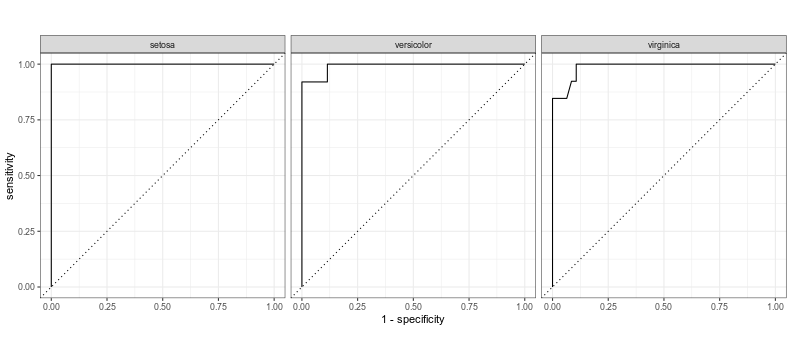
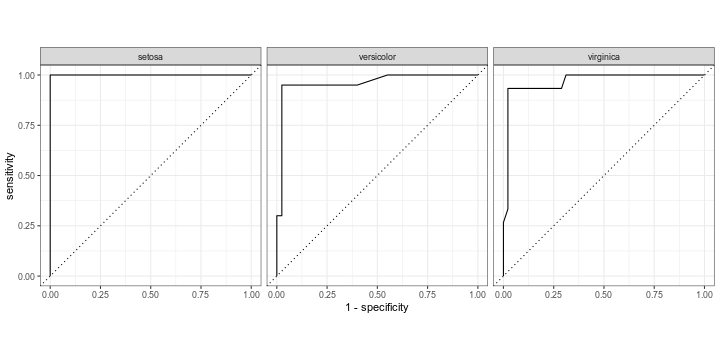
2020-04-25

diff --git a/01_aulas/05_tidyr.html b/01_aulas/05_tidyr.html
@@ -410,7 +410,7 @@ dplyr::glimpse(iris)
 
 background-image: url(img/package_rsample.png)
 background-size: 100px
-background-position: 90% 90%
+background-position: 95% 90%
 
 # 5.8 Pacote rsample
 
@@ -432,7 +432,7 @@ iris_split
 
 background-image: url(img/package_rsample.png)
 background-size: 100px
-background-position: 90% 90%
+background-position: 95% 90%
 
 # 5.8 Pacote rsample
 
@@ -449,10 +449,10 @@ iris_split %&gt;%
 ```
 ## Rows: 90
 ## Columns: 5
-## $ Sepal.Length &lt;dbl&gt; 5.1, 4.9, 4.6, 5.0, 4.6, 4.4, 5.4, 4.8, 4.8, 4.3, 5.7, 5…
-## $ Sepal.Width  &lt;dbl&gt; 3.5, 3.0, 3.1, 3.6, 3.4, 2.9, 3.7, 3.4, 3.0, 3.0, 4.4, 3…
-## $ Petal.Length &lt;dbl&gt; 1.4, 1.4, 1.5, 1.4, 1.4, 1.4, 1.5, 1.6, 1.4, 1.1, 1.5, 1…
-## $ Petal.Width  &lt;dbl&gt; 0.2, 0.2, 0.2, 0.2, 0.3, 0.2, 0.2, 0.2, 0.1, 0.1, 0.4, 0…
+## $ Sepal.Length &lt;dbl&gt; 5.1, 4.6, 4.4, 4.8, 4.3, 5.7, 5.4, 5.7, 5.1, 5.4, 4.8, 5…
+## $ Sepal.Width  &lt;dbl&gt; 3.5, 3.1, 2.9, 3.0, 3.0, 4.4, 3.9, 3.8, 3.8, 3.4, 3.4, 3…
+## $ Petal.Length &lt;dbl&gt; 1.4, 1.5, 1.4, 1.4, 1.1, 1.5, 1.3, 1.7, 1.5, 1.7, 1.9, 1…
+## $ Petal.Width  &lt;dbl&gt; 0.2, 0.2, 0.2, 0.1, 0.1, 0.4, 0.4, 0.3, 0.3, 0.2, 0.2, 0…
 ## $ Species      &lt;fct&gt; setosa, setosa, setosa, setosa, setosa, setosa, setosa, …
 ```
 
@@ -460,7 +460,7 @@ iris_split %&gt;%
 
 background-image: url(img/package_rsample.png)
 background-size: 100px
-background-position: 90% 90%
+background-position: 95% 90%
 
 # 5.8 Pacote rsample
 
@@ -477,10 +477,10 @@ iris_split %&gt;%
 ```
 ## Rows: 60
 ## Columns: 5
-## $ Sepal.Length &lt;dbl&gt; 4.7, 5.4, 5.0, 4.9, 5.8, 5.1, 5.7, 5.1, 5.0, 5.2, 4.7, 4…
-## $ Sepal.Width  &lt;dbl&gt; 3.2, 3.9, 3.4, 3.1, 4.0, 3.5, 3.8, 3.8, 3.0, 3.5, 3.2, 3…
-## $ Petal.Length &lt;dbl&gt; 1.3, 1.7, 1.5, 1.5, 1.2, 1.4, 1.7, 1.5, 1.6, 1.5, 1.6, 1…
-## $ Petal.Width  &lt;dbl&gt; 0.2, 0.4, 0.2, 0.1, 0.2, 0.3, 0.3, 0.3, 0.2, 0.2, 0.2, 0…
+## $ Sepal.Length &lt;dbl&gt; 4.9, 4.7, 5.0, 5.4, 4.6, 5.0, 4.9, 5.4, 4.8, 5.8, 5.1, 5…
+## $ Sepal.Width  &lt;dbl&gt; 3.0, 3.2, 3.6, 3.9, 3.4, 3.4, 3.1, 3.7, 3.4, 4.0, 3.5, 3…
+## $ Petal.Length &lt;dbl&gt; 1.4, 1.3, 1.4, 1.7, 1.4, 1.5, 1.5, 1.5, 1.6, 1.2, 1.4, 1…
+## $ Petal.Width  &lt;dbl&gt; 0.2, 0.2, 0.2, 0.4, 0.3, 0.2, 0.1, 0.2, 0.2, 0.2, 0.3, 0…
 ## $ Species      &lt;fct&gt; setosa, setosa, setosa, setosa, setosa, setosa, setosa, …
 ```
 
@@ -488,7 +488,7 @@ iris_split %&gt;%
 
 background-image: url(img/package_recipes.png)
 background-size: 100px
-background-position: 90% 72%
+background-position: 95% 72%
 
 # 5.9 Pacote recipes
 
@@ -526,7 +526,7 @@ iris_recipe
 
 background-image: url(img/package_recipes.png)
 background-size: 100px
-background-position: 90% 90%
+background-position: 95% 90%
 
 # 5.9 Pacote recipes
 
@@ -541,9 +541,9 @@ dplyr::glimpse(iris_testing)
 ```
 ## Rows: 60
 ## Columns: 4
-## $ Sepal.Length &lt;dbl&gt; -1.32241203, -0.50402344, -0.97167406, -1.08858672, -0.0…
-## $ Sepal.Width  &lt;dbl&gt; 0.40685598, 2.01892682, 0.86744765, 0.17656014, 2.249222…
-## $ Petal.Width  &lt;dbl&gt; -1.39684840, -1.13218238, -1.39684840, -1.52918140, -1.3…
+## $ Sepal.Length &lt;dbl&gt; -1.16455329, -1.40801391, -1.04282298, -0.55590174, -1.5…
+## $ Sepal.Width  &lt;dbl&gt; -0.01476838, 0.42828315, 1.31438622, 1.97896352, 0.87133…
+## $ Petal.Width  &lt;dbl&gt; -1.4519180, -1.4519180, -1.4519180, -1.1830443, -1.31748…
 ## $ Species      &lt;fct&gt; setosa, setosa, setosa, setosa, setosa, setosa, setosa, …
 ```
 
@@ -551,7 +551,7 @@ dplyr::glimpse(iris_testing)
 
 background-image: url(img/package_recipes.png)
 background-size: 100px
-background-position: 90% 90%
+background-position: 95% 90%
 
 # 5.9 Pacote recipes
 
@@ -565,9 +565,9 @@ dplyr::glimpse(iris_training)
 ```
 ## Rows: 90
 ## Columns: 4
-## $ Sepal.Length &lt;dbl&gt; -0.8547614, -1.0885867, -1.4393247, -0.9716741, -1.43932…
-## $ Sepal.Width  &lt;dbl&gt; 1.09774348, -0.05373569, 0.17656014, 1.32803932, 0.86744…
-## $ Petal.Width  &lt;dbl&gt; -1.3968484, -1.3968484, -1.3968484, -1.3968484, -1.26451…
+## $ Sepal.Length &lt;dbl&gt; -0.9210927, -1.5297442, -1.7732048, -1.2862836, -1.89493…
+## $ Sepal.Width  &lt;dbl&gt; 1.09286045, 0.20675738, -0.23629415, -0.01476838, -0.014…
+## $ Petal.Width  &lt;dbl&gt; -1.4519180, -1.4519180, -1.4519180, -1.5863549, -1.58635…
 ## $ Species      &lt;fct&gt; setosa, setosa, setosa, setosa, setosa, setosa, setosa, …
 ```
 
@@ -575,7 +575,7 @@ dplyr::glimpse(iris_training)
 
 background-image: url(img/package_parsnip.png)
 background-size: 100px
-background-position: 90% 90%
+background-position: 95% 90%
 
 # 5.10 Pacote parsnip
 
@@ -589,9 +589,19 @@ iris_rf &lt;- parsnip::rand_forest(trees = 100, mode = "classification") %&gt;%
 
 ---
 
+background-image: url(img/package_parsnip.png), url(img/algorithm_random_forest.png)
+background-size: 100px, 700px
+background-position: 95% 90%, 45% 50%
+
+# 5.10 Pacote parsnip
+
+## Random Forest
+
+---
+
 background-image: url(img/package_parsnip.png)
 background-size: 100px
-background-position: 90% 90%
+background-position: 95% 90%
 
 # 5.10 Pacote parsnip
 
@@ -621,7 +631,7 @@ stats::predict(iris_rf, iris_testing)
 
 background-image: url(img/package_parsnip.png)
 background-size: 100px
-background-position: 90% 90%
+background-position: 95% 90%
 
 # 5.10 Pacote parsnip
 
@@ -636,9 +646,9 @@ iris_rf %&gt;%
 ## Rows: 60
 ## Columns: 5
 ## $ .pred_class  &lt;fct&gt; setosa, setosa, setosa, setosa, setosa, setosa, setosa, …
-## $ Sepal.Length &lt;dbl&gt; -1.32241203, -0.50402344, -0.97167406, -1.08858672, -0.0…
-## $ Sepal.Width  &lt;dbl&gt; 0.40685598, 2.01892682, 0.86744765, 0.17656014, 2.249222…
-## $ Petal.Width  &lt;dbl&gt; -1.39684840, -1.13218238, -1.39684840, -1.52918140, -1.3…
+## $ Sepal.Length &lt;dbl&gt; -1.16455329, -1.40801391, -1.04282298, -0.55590174, -1.5…
+## $ Sepal.Width  &lt;dbl&gt; -0.01476838, 0.42828315, 1.31438622, 1.97896352, 0.87133…
+## $ Petal.Width  &lt;dbl&gt; -1.4519180, -1.4519180, -1.4519180, -1.1830443, -1.31748…
 ## $ Species      &lt;fct&gt; setosa, setosa, setosa, setosa, setosa, setosa, setosa, …
 ```
 
@@ -646,7 +656,7 @@ iris_rf %&gt;%
 
 background-image: url(img/package_yardstick.png)
 background-size: 100px
-background-position: 90% 90%
+background-position: 95% 90%
 
 # 5.11 Pacote tyardstick
 
@@ -663,14 +673,14 @@ iris_rf %&gt;%
 ##   .metric  .estimator .estimate
 ##   &lt;chr&gt;    &lt;chr&gt;          &lt;dbl&gt;
 ## 1 accuracy multiclass     0.917
-## 2 kap      multiclass     0.874
+## 2 kap      multiclass     0.873
 ```
 
 ---
 
 background-image: url(img/package_yardstick.png)
 background-size: 100px
-background-position: 90% 90%
+background-position: 95% 90%
 
 # 5.11 Pacote tyardstick
 
@@ -685,12 +695,12 @@ dplyr::glimpse(iris_probs)
 ```
 ## Rows: 60
 ## Columns: 7
-## $ .pred_setosa     &lt;dbl&gt; 1.00, 1.00, 1.00, 0.99, 0.73, 1.00, 0.76, 1.00, 0.93…
-## $ .pred_versicolor &lt;dbl&gt; 0.00, 0.00, 0.00, 0.01, 0.24, 0.00, 0.22, 0.00, 0.06…
-## $ .pred_virginica  &lt;dbl&gt; 0.00, 0.00, 0.00, 0.00, 0.03, 0.00, 0.02, 0.00, 0.01…
-## $ Sepal.Length     &lt;dbl&gt; -1.32241203, -0.50402344, -0.97167406, -1.08858672, …
-## $ Sepal.Width      &lt;dbl&gt; 0.40685598, 2.01892682, 0.86744765, 0.17656014, 2.24…
-## $ Petal.Width      &lt;dbl&gt; -1.39684840, -1.13218238, -1.39684840, -1.52918140, …
+## $ .pred_setosa     &lt;dbl&gt; 0.92, 1.00, 1.00, 1.00, 1.00, 1.00, 0.94, 0.99, 1.00…
+## $ .pred_versicolor &lt;dbl&gt; 0.07, 0.00, 0.00, 0.00, 0.00, 0.00, 0.04, 0.01, 0.00…
+## $ .pred_virginica  &lt;dbl&gt; 0.01, 0.00, 0.00, 0.00, 0.00, 0.00, 0.02, 0.00, 0.00…
+## $ Sepal.Length     &lt;dbl&gt; -1.16455329, -1.40801391, -1.04282298, -0.55590174, …
+## $ Sepal.Width      &lt;dbl&gt; -0.01476838, 0.42828315, 1.31438622, 1.97896352, 0.8…
+## $ Petal.Width      &lt;dbl&gt; -1.4519180, -1.4519180, -1.4519180, -1.1830443, -1.3…
 ## $ Species          &lt;fct&gt; setosa, setosa, setosa, setosa, setosa, setosa, seto…
 ```
 
@@ -698,7 +708,7 @@ dplyr::glimpse(iris_probs)
 
 background-image: url(img/package_yardstick.png)
 background-size: 100px
-background-position: 90% 90%
+background-position: 95% 90%
 
 # 5.11 Pacote tyardstick
 
@@ -709,36 +719,43 @@ iris_probs %&gt;%
 ```
 
 ```
-## Rows: 87
+## Rows: 69
 ## Columns: 5
 ## $ .level          &lt;chr&gt; "setosa", "setosa", "setosa", "setosa", "setosa", "se…
-## $ .n              &lt;dbl&gt; 0, 13, 16, 17, 18, 19, 20, 21, 22, 23, 25, 26, 28, 32…
-## $ .n_events       &lt;dbl&gt; 0, 13, 16, 17, 18, 19, 20, 21, 22, 22, 22, 22, 22, 22…
-## $ .percent_tested &lt;dbl&gt; 0.000000, 21.666667, 26.666667, 28.333333, 30.000000,…
-## $ .percent_found  &lt;dbl&gt; 0.00000, 59.09091, 72.72727, 77.27273, 81.81818, 86.3…
+## $ .n              &lt;dbl&gt; 0, 13, 16, 18, 19, 20, 22, 23, 24, 25, 27, 28, 29, 30…
+## $ .n_events       &lt;dbl&gt; 0, 13, 16, 18, 19, 20, 22, 23, 24, 25, 25, 25, 25, 25…
+## $ .percent_tested &lt;dbl&gt; 0.000000, 21.666667, 26.666667, 30.000000, 31.666667,…
+## $ .percent_found  &lt;dbl&gt; 0, 52, 64, 72, 76, 80, 88, 92, 96, 100, 100, 100, 100…
 ```
-
----
-
-# 5.11 Pacote tyardstick
-
-```r
-iris_probs %&gt;%
-  yardstick::roc_curve(Species, .pred_setosa:.pred_virginica) %&gt;%
-  ggplot2::autoplot()
-```
-
-&lt;img src="05_tidyr_files/figure-html/unnamed-chunk-23-1.png" style="display: block; margin: auto;" /&gt;
 
 ---
 
 background-image: url(img/package_yardstick.png)
 background-size: 100px
-background-position: 90% 90%
+background-position: 95% 83%
+
+# 5.11 Pacote tyardstick
+## ROC e AUC
+
+```r
+# roc e auc
+iris_probs %&gt;%
+  yardstick::roc_curve(Species, .pred_setosa:.pred_virginica) %&gt;%
+  ggplot2::autoplot()
+```
+
+![](05_tidyr_files/figure-html/unnamed-chunk-23-1.png)&lt;!-- --&gt;
+
+---
+
+background-image: url(img/package_yardstick.png)
+background-size: 100px
+background-position: 95% 90%
 
 # 5.11 Pacote tyardstick
 
 ```r
+# predicao
 predict(iris_rf, iris_testing, type = "prob") %&gt;%
   dplyr::bind_cols(predict(iris_rf, iris_testing)) %&gt;%
   dplyr::bind_cols(select(iris_testing, Species)) %&gt;%
@@ -748,9 +765,9 @@ predict(iris_rf, iris_testing, type = "prob") %&gt;%
 ```
 ## Rows: 60
 ## Columns: 5
-## $ .pred_setosa     &lt;dbl&gt; 1.00, 1.00, 1.00, 0.99, 0.73, 1.00, 0.76, 1.00, 0.93…
-## $ .pred_versicolor &lt;dbl&gt; 0.00, 0.00, 0.00, 0.01, 0.24, 0.00, 0.22, 0.00, 0.06…
-## $ .pred_virginica  &lt;dbl&gt; 0.00, 0.00, 0.00, 0.00, 0.03, 0.00, 0.02, 0.00, 0.01…
+## $ .pred_setosa     &lt;dbl&gt; 0.92, 1.00, 1.00, 1.00, 1.00, 1.00, 0.94, 0.99, 1.00…
+## $ .pred_versicolor &lt;dbl&gt; 0.07, 0.00, 0.00, 0.00, 0.00, 0.00, 0.04, 0.01, 0.00…
+## $ .pred_virginica  &lt;dbl&gt; 0.01, 0.00, 0.00, 0.00, 0.00, 0.00, 0.02, 0.00, 0.00…
 ## $ .pred_class      &lt;fct&gt; setosa, setosa, setosa, setosa, setosa, setosa, seto…
 ## $ Species          &lt;fct&gt; setosa, setosa, setosa, setosa, setosa, setosa, seto…
 ```
@@ -759,7 +776,7 @@ predict(iris_rf, iris_testing, type = "prob") %&gt;%
 
 background-image: url(img/package_yardstick.png)
 background-size: 100px
-background-position: 90% 90%
+background-position: 95% 90%
 
 # 5.11 Pacote tyardstick
 
@@ -775,9 +792,9 @@ predict(iris_rf, iris_testing, type = "prob") %&gt;%
 ##   .metric     .estimator .estimate
 ##   &lt;chr&gt;       &lt;chr&gt;          &lt;dbl&gt;
 ## 1 accuracy    multiclass     0.917
-## 2 kap         multiclass     0.874
-## 3 mn_log_loss multiclass     0.217
-## 4 roc_auc     hand_till      0.992
+## 2 kap         multiclass     0.873
+## 3 mn_log_loss multiclass     0.238
+## 4 roc_auc     hand_till      0.972
 ```
 
 ---
